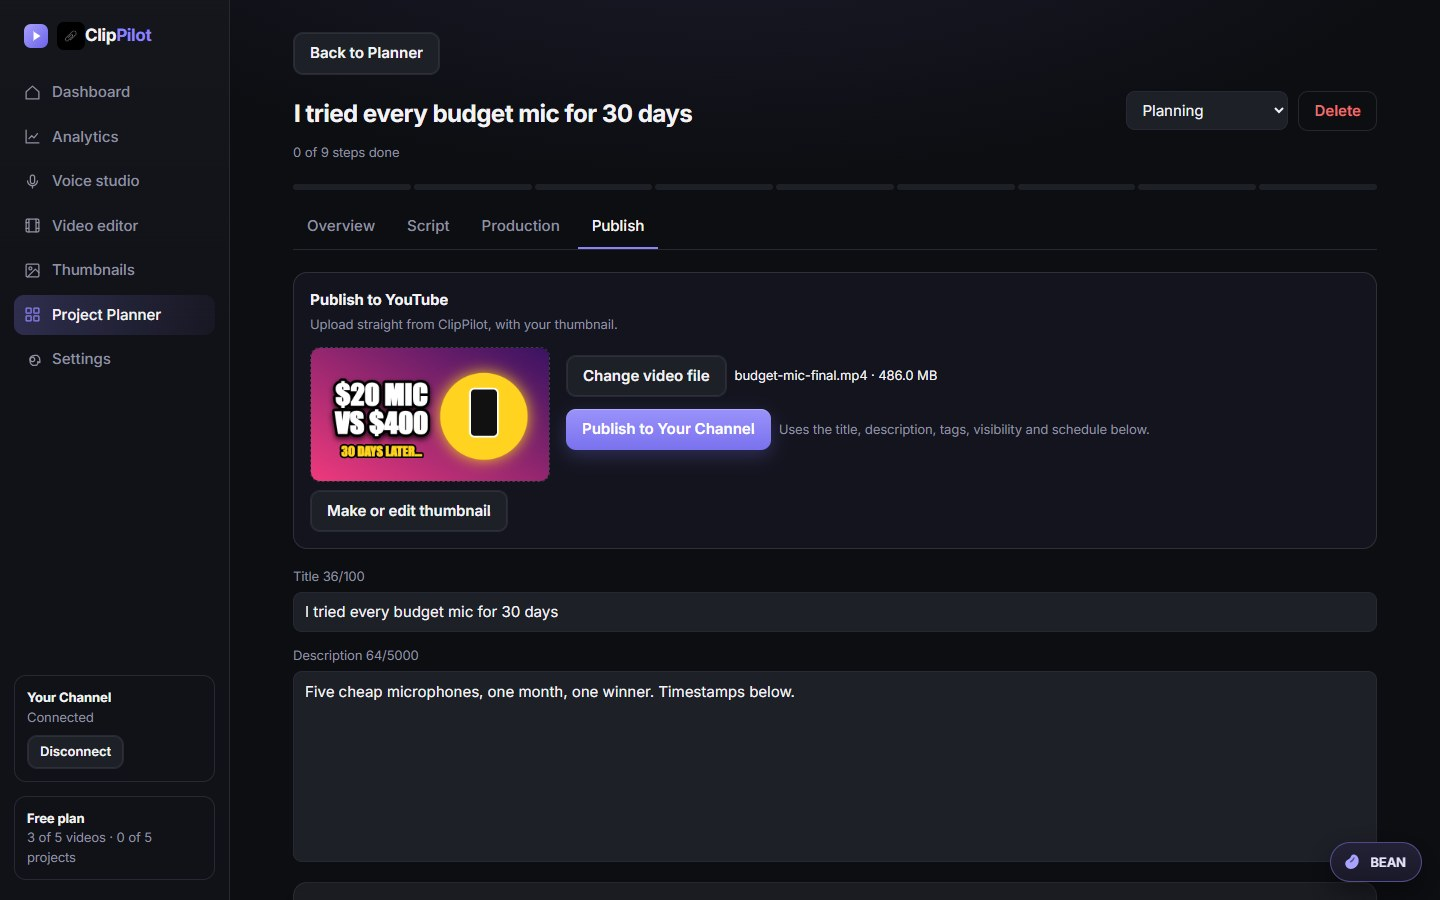
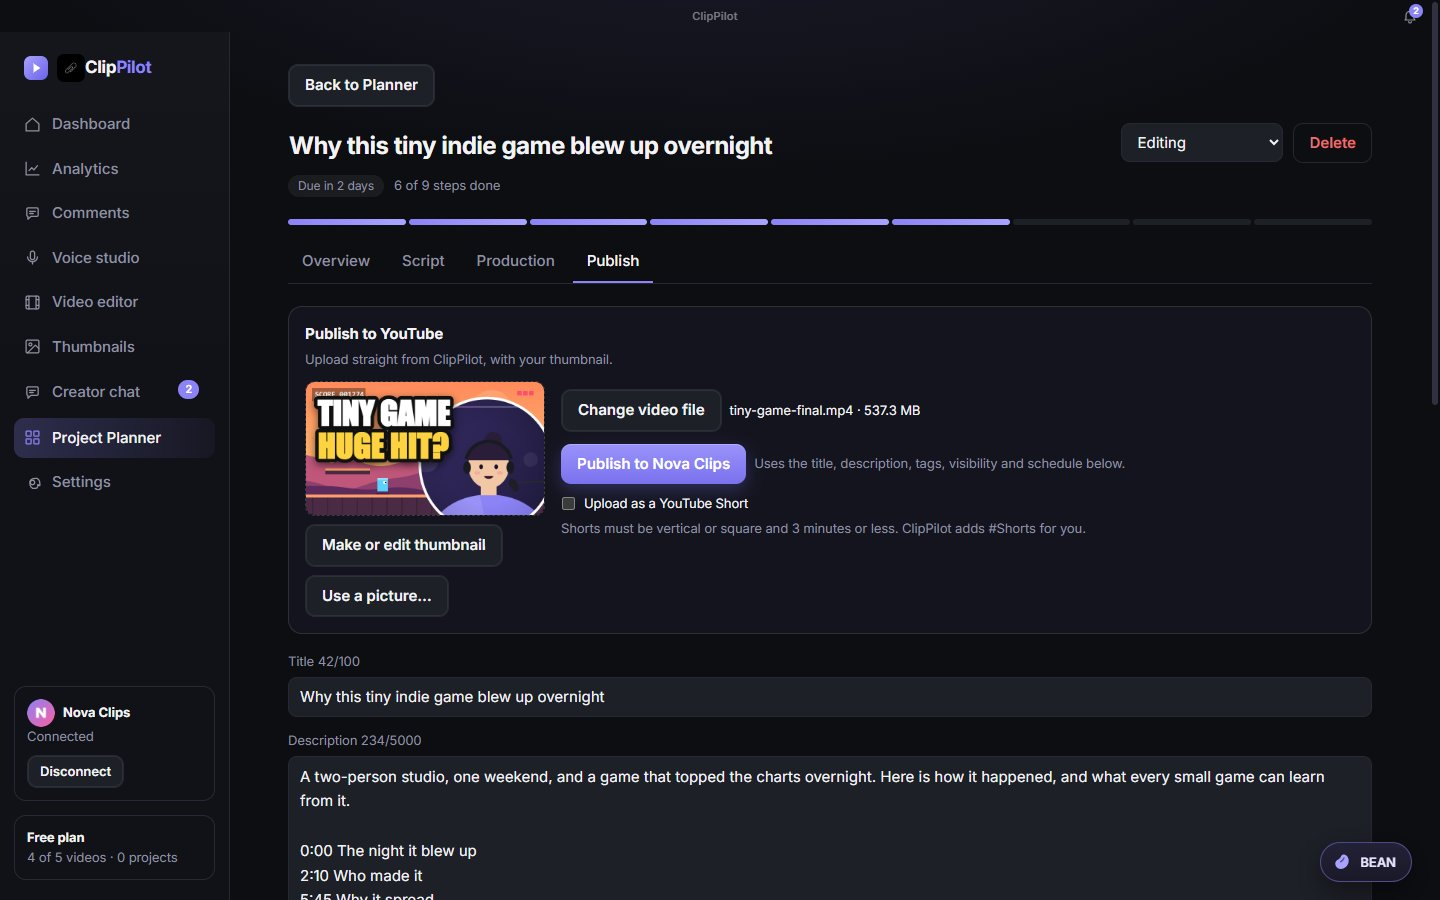
Fresh app screenshots; add Creator Chat, analytics and voice studio
New screenshots of ClipPilot made with sample data (made-up channel
"Nova Clips"): dashboard, video editor, publish and thumbnail editor
refreshed; new Creator Chat group, group call, analytics and voice
studio images. Adds a Creator Chat section and two tour cards.

diff --git a/index.html b/index.html
@@ -4,7 +4,7 @@
 <meta charset="utf-8">
 <meta name="viewport" content="width=device-width, initial-scale=1">
 <title>ClipPilot: plan, edit, design and publish YouTube videos on Windows and Android</title>
-<meta name="description" content="ClipPilot is a free YouTube studio for Windows. Plan videos with realistic checklists, edit with keyframes, make thumbnails in a Photoshop-style editor, and upload straight to YouTube. BEAN, the built-in assistant, helps along the way.">
+<meta name="description" content="ClipPilot is a free YouTube studio for Windows. Plan videos with realistic checklists, edit with keyframes, make thumbnails in a Photoshop-style editor, and upload straight to YouTube. Chat and call other creators in Creator Chat. BEAN, the built-in assistant, helps along the way.">
 <meta name="keywords" content="ClipPilot, YouTube video planner, video editor for Windows, YouTube thumbnail maker, upload to YouTube, content planner, keyframe editor">
 <meta name="theme-color" content="#07060d">
 <link rel="canonical" href="https://clippilot-app.github.io/">
@@ -204,7 +204,7 @@ footer .sig{font-family:Syne;font-weight:700;font-size:18px;color:var(--ink);mar
 
 <nav class="glass">
   <a class="brand" href="#top"><img src="icon.png" alt="">ClipPilot</a>
-  <div class="links"><a href="#tour">Tour</a><a href="#features">Features</a><a href="#bean">BEAN</a><a href="#plans">Plans</a><a href="/privacy/">Privacy</a></div>
+  <div class="links"><a href="#tour">Tour</a><a href="#features">Features</a><a href="#chat">Chat</a><a href="#bean">BEAN</a><a href="#plans">Plans</a><a href="/privacy/">Privacy</a></div>
   <a class="get" href="#download">Download</a>
 </nav>
 
@@ -226,7 +226,7 @@ footer .sig{font-family:Syne;font-weight:700;font-size:18px;color:var(--ink);mar
     <p class="meta"><span class="ver">Free to start</span> · Windows 10 &amp; 11 · Android 8+ · updates itself</p>
   </div>
   <div class="stage">
-    <div class="win" id="win"><div class="bar"><i></i><i></i><i></i><b>ClipPilot · Thumbnails</b></div><img src="media/thumbnail-editor.jpg" width="1440" height="900" alt="ClipPilot's thumbnail editor with layers, text outlines and a glow effect"></div>
+    <div class="win" id="win"><div class="bar"><i></i><i></i><i></i><b>ClipPilot · Thumbnails</b></div><img src="media/thumbnail-editor.jpg" width="1440" height="900" alt="ClipPilot's thumbnail editor: big outlined title text over a game screenshot, a cut-out with a white outline, and the layers panel"></div>
     <div class="chip glass a"><span class="dot"></span>Layers, outlines, glow</div>
     <div class="chip glass d r"><span class="dot"></span>Upload straight to YouTube</div>
     <div class="chip glass b">✦ BEAN can edit it for you</div>
@@ -243,9 +243,11 @@ footer .sig{font-family:Syne;font-weight:700;font-size:18px;color:var(--ink);mar
     <p class="lead">Every step of making a video lives in the same place, and each one hands off to the next. Your thumbnail and your title are already waiting when you hit Publish.</p>
   </div>
   <div class="show">
-    <figure class="shot big rv"><img src="media/publish.jpg" width="1440" height="900" loading="lazy" alt="The Publish tab: thumbnail preview, chosen video file and a Publish to YouTube button"><figcaption><b>Publish without leaving the app</b>Pick the video, check the title, description, tags and thumbnail, then upload. Private, unlisted, public or scheduled.</figcaption></figure>
-    <figure class="shot rv"><img src="media/dashboard.jpg" width="1440" height="900" loading="lazy" alt="ClipPilot dashboard showing the next step, a week calendar and videos in production"><figcaption><b>A dashboard that tells you what's next</b>Your next step, how long it'll really take, and every video in motion.</figcaption></figure>
-    <figure class="shot rv"><img src="media/editor.jpg" width="1440" height="900" loading="lazy" alt="ClipPilot video editor with a ribbon toolbar, preview and multi-track timeline"><figcaption><b>A real video editor</b>Multi-track timeline, keyframes, captions, voiceover and export up to 4K.</figcaption></figure>
+    <figure class="shot big rv"><img src="media/publish.jpg" width="1440" height="900" loading="lazy" alt="The Publish tab: thumbnail preview, the chosen video file, a button to publish to the channel, and the title and description"><figcaption><b>Publish without leaving the app</b>Pick the video, check the title, description, tags and thumbnail, then upload. Private, unlisted, public or scheduled.</figcaption></figure>
+    <figure class="shot rv"><img src="media/dashboard.jpg" width="1440" height="900" loading="lazy" alt="ClipPilot dashboard with the next step, a 7-day streak, the week ahead and four videos in production"><figcaption><b>A dashboard that tells you what's next</b>Your next step, how long it'll really take, and every video in motion.</figcaption></figure>
+    <figure class="shot rv"><img src="media/editor.jpg" width="1440" height="900" loading="lazy" alt="ClipPilot video editor with gameplay clips, a facecam overlay, titles, voiceover and music on a multi-track timeline"><figcaption><b>A real video editor</b>Multi-track timeline, keyframes, captions, voiceover and export up to 4K.</figcaption></figure>
+    <figure class="shot rv"><img src="media/analytics.jpg" width="1440" height="900" loading="lazy" alt="Analytics with views, watch time, subscriber and view-duration cards, a daily views chart, traffic sources and top videos"><figcaption><b>Your channel at a glance</b>Views, watch time, traffic sources and your top videos, with live counts that refresh every minute.</figcaption></figure>
+    <figure class="shot rv"><img src="media/voice-studio.jpg" width="1440" height="900" loading="lazy" alt="Voice studio with five saved takes, a trimmed waveform, effects and the script for the teleprompter"><figcaption><b>A voice studio for your voiceovers</b>Record takes while the teleprompter scrolls your script, trim the best one and send it to the editor.</figcaption></figure>
   </div>
 </section>
 
@@ -261,6 +263,18 @@ footer .sig{font-family:Syne;font-weight:700;font-size:18px;color:var(--ink);mar
     <div class="card glass rv"><div class="ico"><svg viewBox="0 0 24 24" fill="none" stroke="currentColor" stroke-width="1.8" stroke-linecap="round" stroke-linejoin="round"><rect x="2" y="4" width="20" height="16" rx="2"/><path d="M7 4v16M17 4v16M2 9h5M2 15h5M17 9h5M17 15h5"/></svg></div><h3>Video editor</h3><p>Three layouts (Simple, Motion and Studio), 81 transitions with live previews, text effects, keyframes on anything, colour grading, green screen and auto-duck.</p></div>
     <div class="card glass rv"><div class="ico"><svg viewBox="0 0 24 24" fill="none" stroke="currentColor" stroke-width="1.8" stroke-linecap="round" stroke-linejoin="round"><rect x="9" y="2" width="6" height="12" rx="3"/><path d="M5 10a7 7 0 0 0 14 0M12 17v5"/></svg></div><h3>Voice studio</h3><p>Record and clean up voiceovers, then drop them on the timeline.</p></div>
     <div class="card wide glass rv"><div class="ico"><svg viewBox="0 0 24 24" fill="none" stroke="currentColor" stroke-width="1.8" stroke-linecap="round" stroke-linejoin="round"><path d="M3 3v18h18"/><path d="M7 15l4-4 3 3 6-6"/></svg></div><h3>Channel analytics</h3><p>Connect your channel to see subscribers, views, watch time, traffic sources and your top videos, right next to what you're making now. Live stats refresh every minute like YouTube Studio, and you can read and reply to comments without leaving the app.</p></div>
+  </div>
+</section>
+
+<section id="chat">
+  <div class="rv">
+    <span class="kicker">Creator Chat</span>
+    <h2>Make videos<br><span class="grad">with friends.</span></h2>
+    <p class="lead">Chat with other creators inside ClipPilot. Start a group for a collab, share drafts, and hop on a call when typing gets slow.</p>
+  </div>
+  <div class="show">
+    <figure class="shot rv"><img src="media/chat.jpg" width="1440" height="900" loading="lazy" alt="A Creator Chat group with a shared thumbnail draft, replies, emoji reactions and a pinned message"><figcaption><b>Group chats for collabs</b>Share thumbnail drafts, reply to a message, react, and pin the plan so nobody loses it.</figcaption></figure>
+    <figure class="shot rv"><img src="media/group-call.jpg" width="1440" height="900" loading="lazy" alt="A group call with five creators: four camera tiles and one on mute"><figcaption><b>Group voice and video calls</b>Up to 8 people in a call, with camera, mute and screen sharing.</figcaption></figure>
   </div>
 </section>
 
@@ -343,7 +357,7 @@ footer .sig{font-family:Syne;font-weight:700;font-size:18px;color:var(--ink);mar
       document.querySelectorAll('.dla-label').forEach(s => s.textContent = `Download for Android ${v} · ${mb} MB`);
     }).catch(() => {});
 
-  const words = ['Project planner', 'Video editor', 'Thumbnail editor', 'Publish to YouTube', 'Keyframes', 'Voice studio', 'Analytics', 'BEAN assistant', '4K export', 'Green screen'];
+  const words = ['Project planner', 'Video editor', 'Thumbnail editor', 'Publish to YouTube', 'Keyframes', 'Voice studio', 'Analytics', 'Creator Chat', 'Group calls', 'BEAN assistant', '4K export', 'Green screen'];
   document.getElementById('mq').innerHTML = words.map(w => `<span>${w}</span>`).join('');
 
   const cur = document.getElementById('cursor'), win = document.getElementById('win');
